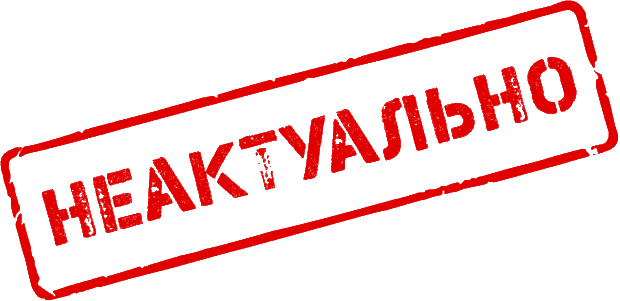
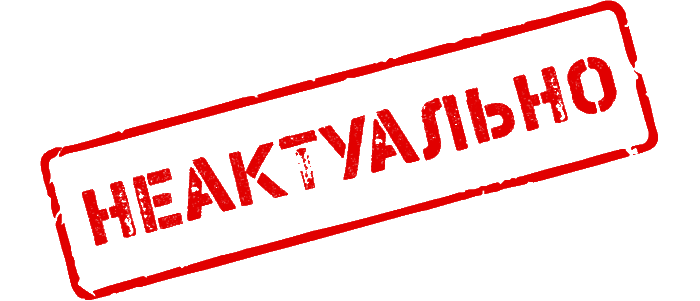
Фиксы алгоритма поиска неактуальных постов

Changed region(s): [[0.0, 0.0, 1.0, 1.0]]

diff --git a/bot.py b/bot.py
@@ -120,10 +120,10 @@ def image_change(url, stamp_irrelevant=False):
 
     # Поставить штамп "Не актуально"
     if stamp_irrelevant:
-        blackout = Image.open('img/blackout.png').convert("RGBA")
+        # blackout = Image.open('img/blackout.png').convert("RGBA")
         stamp = Image.open('img/stamp.png').convert("RGBA")
         im.paste(stamp, (int((W - stamp.width) / 2), int((H - stamp.height) / 2)), stamp)
-        im.paste(blackout, (0, 0), blackout)
+        # im.paste(blackout, (0, 0), blackout)
 
     return im.convert("RGB")
 
@@ -163,10 +163,13 @@ def find_min_price_in_prices_list(price_list):
 def irr_post_check_price_in_other_shop(min_act_price_data_in_stock_list, item_shop_list):
     pos_price, pos_shop, pos_datetime, pos_color, pos_url = 0, 1, 2, 3, 4
 
+    print("---In other shop:\nmin_act_price_data_in_stock_list - {}\nitem_shop_list - {}".format(min_act_price_data_in_stock_list, item_shop_list))
+
     # Если в минимальных актуальных цен есть цены из магазинов, отличных от магазинов в посте,
     # то пост автоматически становится ПОЛНОСТЬЮ НЕАКТУАЛЬНЫМ
     for min_price_data_item in min_act_price_data_in_stock_list:
         if not (min_price_data_item[pos_shop] in item_shop_list):
+            print("---In other shop: if not {} in item_shop_list - TRUE".format(str(min_price_data_item[pos_shop])))
             # Если нашлась низкая цена в другом магазине - пост неактуальный - переход к другому посту
             return True
 
@@ -258,8 +261,10 @@ class Bot:
     # Чтение кол-ва всех и актуальных постов
     def __load_num_posts(self):
         with open(h.NUM_POSTS_IN_TELEGRAM_PATH, 'r', encoding='UTF-8') as f:
-            self.num_all_post = int(f.readline().replace('\n', ''))
-            self.num_actual_post = int(f.readline().replace('\n', ''))
+            line1 = f.readline().replace('\n', '')
+            self.num_all_post = int(line1) if line1 else 0
+            line2 = f.readline().replace('\n', '')
+            self.num_actual_post = int(line2) if line2 else 0
 
             logger.info("Num All Posts in Telegram = {}".format(self.num_all_post))
             logger.info("Num Actual Posts in Telegram = {}".format(self.num_actual_post))
@@ -284,6 +289,9 @@ class Bot:
         with open(h.MESSAGES_IN_TELEGRAM_LIST_PATH, 'r', encoding='UTF-8') as f:
             reader = csv.DictReader(f)
             for row in reader:
+                row_urls_list = row['URLs'].replace("'", "").replace('(', '').replace(')', '').replace(' ', '')
+                row_shops_list = row['Магазины'].replace("'", "").replace('(', '').replace(')', '').replace(' ', '')
+
                 self.actual_posts_in_telegram_list.append(h.MessagesInTelegram(
                     message_id=int(row['Message ID']),
                     text=row['Текст'],
@@ -292,8 +300,8 @@ class Bot:
                     ram=int(row['RAM']),
                     rom=int(row['ROM']),
                     cur_price=int(row['Цена']),
-                    shops_list=row['Магазины'],
-                    urls_list=row['URLs'],
+                    shops_list=tuple(int(item) for item in row_shops_list.split(',') if item),
+                    urls_list=tuple(item for item in row_urls_list.split(',') if item),
                     img_url=row['Img URL'],
                     datetime=datetime.strptime(str(row['Дата и Время']), '%Y-%m-%d %H:%M:%S.%f'),
                 ))
@@ -524,6 +532,14 @@ class Bot:
             # Список данных с минимальными актуальными ценами в наличии
             min_act_price_data_in_stock_list = find_min_price_in_prices_list(act_price_data_in_stock_list)
 
+            print("item: {}".format(item))
+            print("item.urls_list: {}".format(item.urls_list))
+            print("item.shops_list: {}".format(item.shops_list))
+            print("act_price_data_lits: {}".format(act_price_data_list))
+            print("act_price_data_in_stock_list: {}".format(act_price_data_in_stock_list))
+            print("min_act_price_data_in_stock_list: {}".format(min_act_price_data_in_stock_list))
+
+
             # Проверка других магазинов, в которых цена тоже выгодная. Если True - пост ПОЛНОСТЬЮ НЕАКТУАЛЬНЫЙ
             if irr_post_check_price_in_other_shop(min_act_price_data_in_stock_list, item.shops_list):
                 logger.info("Пост полностью неактуальный - есть другие магазины с такой же ценой")
@@ -534,6 +550,9 @@ class Bot:
             # Получение неактуальных ссылок в посте
             irrelevant_url_list = irr_post_find_irr_url(act_price_data_in_stock_list, min_act_price_data_in_stock_list,
                                                         item.urls_list)
+
+            print("irrelevant_url_list: {}".format(irrelevant_url_list))
+            print("-" * 50)
 
             # Если список пустой - пост ПОЛНОСТЬЮ АКТУАЛЬНЫЙ
             if not irrelevant_url_list:
@@ -568,7 +587,7 @@ class Bot:
 
     # Запуск отправки новых постов
     def send_posts(self, pc_product_list):
-        pc_product_list = get_data()
+        # pc_product_list = get_data()
         if not pc_product_list:
             logger.info("НЕТ ДАННЫХ ДЛЯ TELEGRAM")
             return
@@ -590,3 +609,15 @@ class Bot:
         self.__checking_irrelevant_posts(pr_product_in_stock_list)
         self.__save_msg_in_telegram_list()
         self.__save_num_posts()
+
+
+# bot = Bot()
+
+# bot.db.connect_or_create("parser2", "postgres", "1990", "127.0.0.1", "5432")
+# act_price_data_list = bot.db.execute_read_query(sr.search_actual_prices_by_version_query,
+#                                                              ('samsung', 'galaxy s20', 8, 128))
+# bot.db.disconnect()
+#
+# for item in act_price_data_list:
+#     print(item)
+#     print(item[1])

diff --git a/main.py b/main.py
@@ -72,35 +72,35 @@ def read_config():
 if __name__ == '__main__':
     time_start = time()
     h.del_old_logs()
-    result_list = []
+    # result_list = []
+    #
+    # load_exceptions_model_names()
+    # read_config()
+    #
+    # parser = MVideoParse()
+    # result = parser.run_catalog("https://www.mvideo.ru/smartfony-i-svyaz-10/smartfony-205?sort=price_asc")
+    # # result = load_result_from_csv("mvideo.csv")
+    # if not result:
+    #     raise SystemExit(5)
+    # result_list.extend(result)
+    #
+    # parser = MTSParse()
+    # result = parser.run_catalog("https://shop.mts.ru/catalog/smartfony/?id=62427_233815 ")
+    # # result = load_result_from_csv("mts.csv")
+    # if not result:
+    #     raise SystemExit(5)
+    # result_list.extend(result)
+    #
+    # parser = DNSParse()
+    # result = parser.run_catalog("https://www.dns-shop.ru/catalog/17a8a01d16404e77/smartfony/")
+    # # result = load_result_from_csv("dns.csv")
+    # if not result:
+    #     raise SystemExit(5)
+    # result_list.extend(result)
+    #
+    # save_result_list(result_list)
 
-    load_exceptions_model_names()
-    read_config()
-
-    parser = MVideoParse()
-    result = parser.run_catalog("https://www.mvideo.ru/smartfony-i-svyaz-10/smartfony-205?sort=price_asc")
-    # result = load_result_from_csv("mvideo.csv")
-    if not result:
-        raise SystemExit(5)
-    result_list.extend(result)
-
-    parser = MTSParse()
-    result = parser.run_catalog("https://shop.mts.ru/catalog/smartfony/?id=62427_233815 ")
-    # result = load_result_from_csv("mts.csv")
-    if not result:
-        raise SystemExit(5)
-    result_list.extend(result)
-
-    parser = DNSParse()
-    result = parser.run_catalog("https://www.dns-shop.ru/catalog/17a8a01d16404e77/smartfony/")
-    # result = load_result_from_csv("dns.csv")
-    if not result:
-        raise SystemExit(5)
-    result_list.extend(result)
-
-    save_result_list(result_list)
-
-    # result_list = load_result_from_csv("goods.csv")
+    result_list = load_result_from_csv("goods.csv")
     check = Checker(result_list)
     benefit_price_list = check.run()
 
